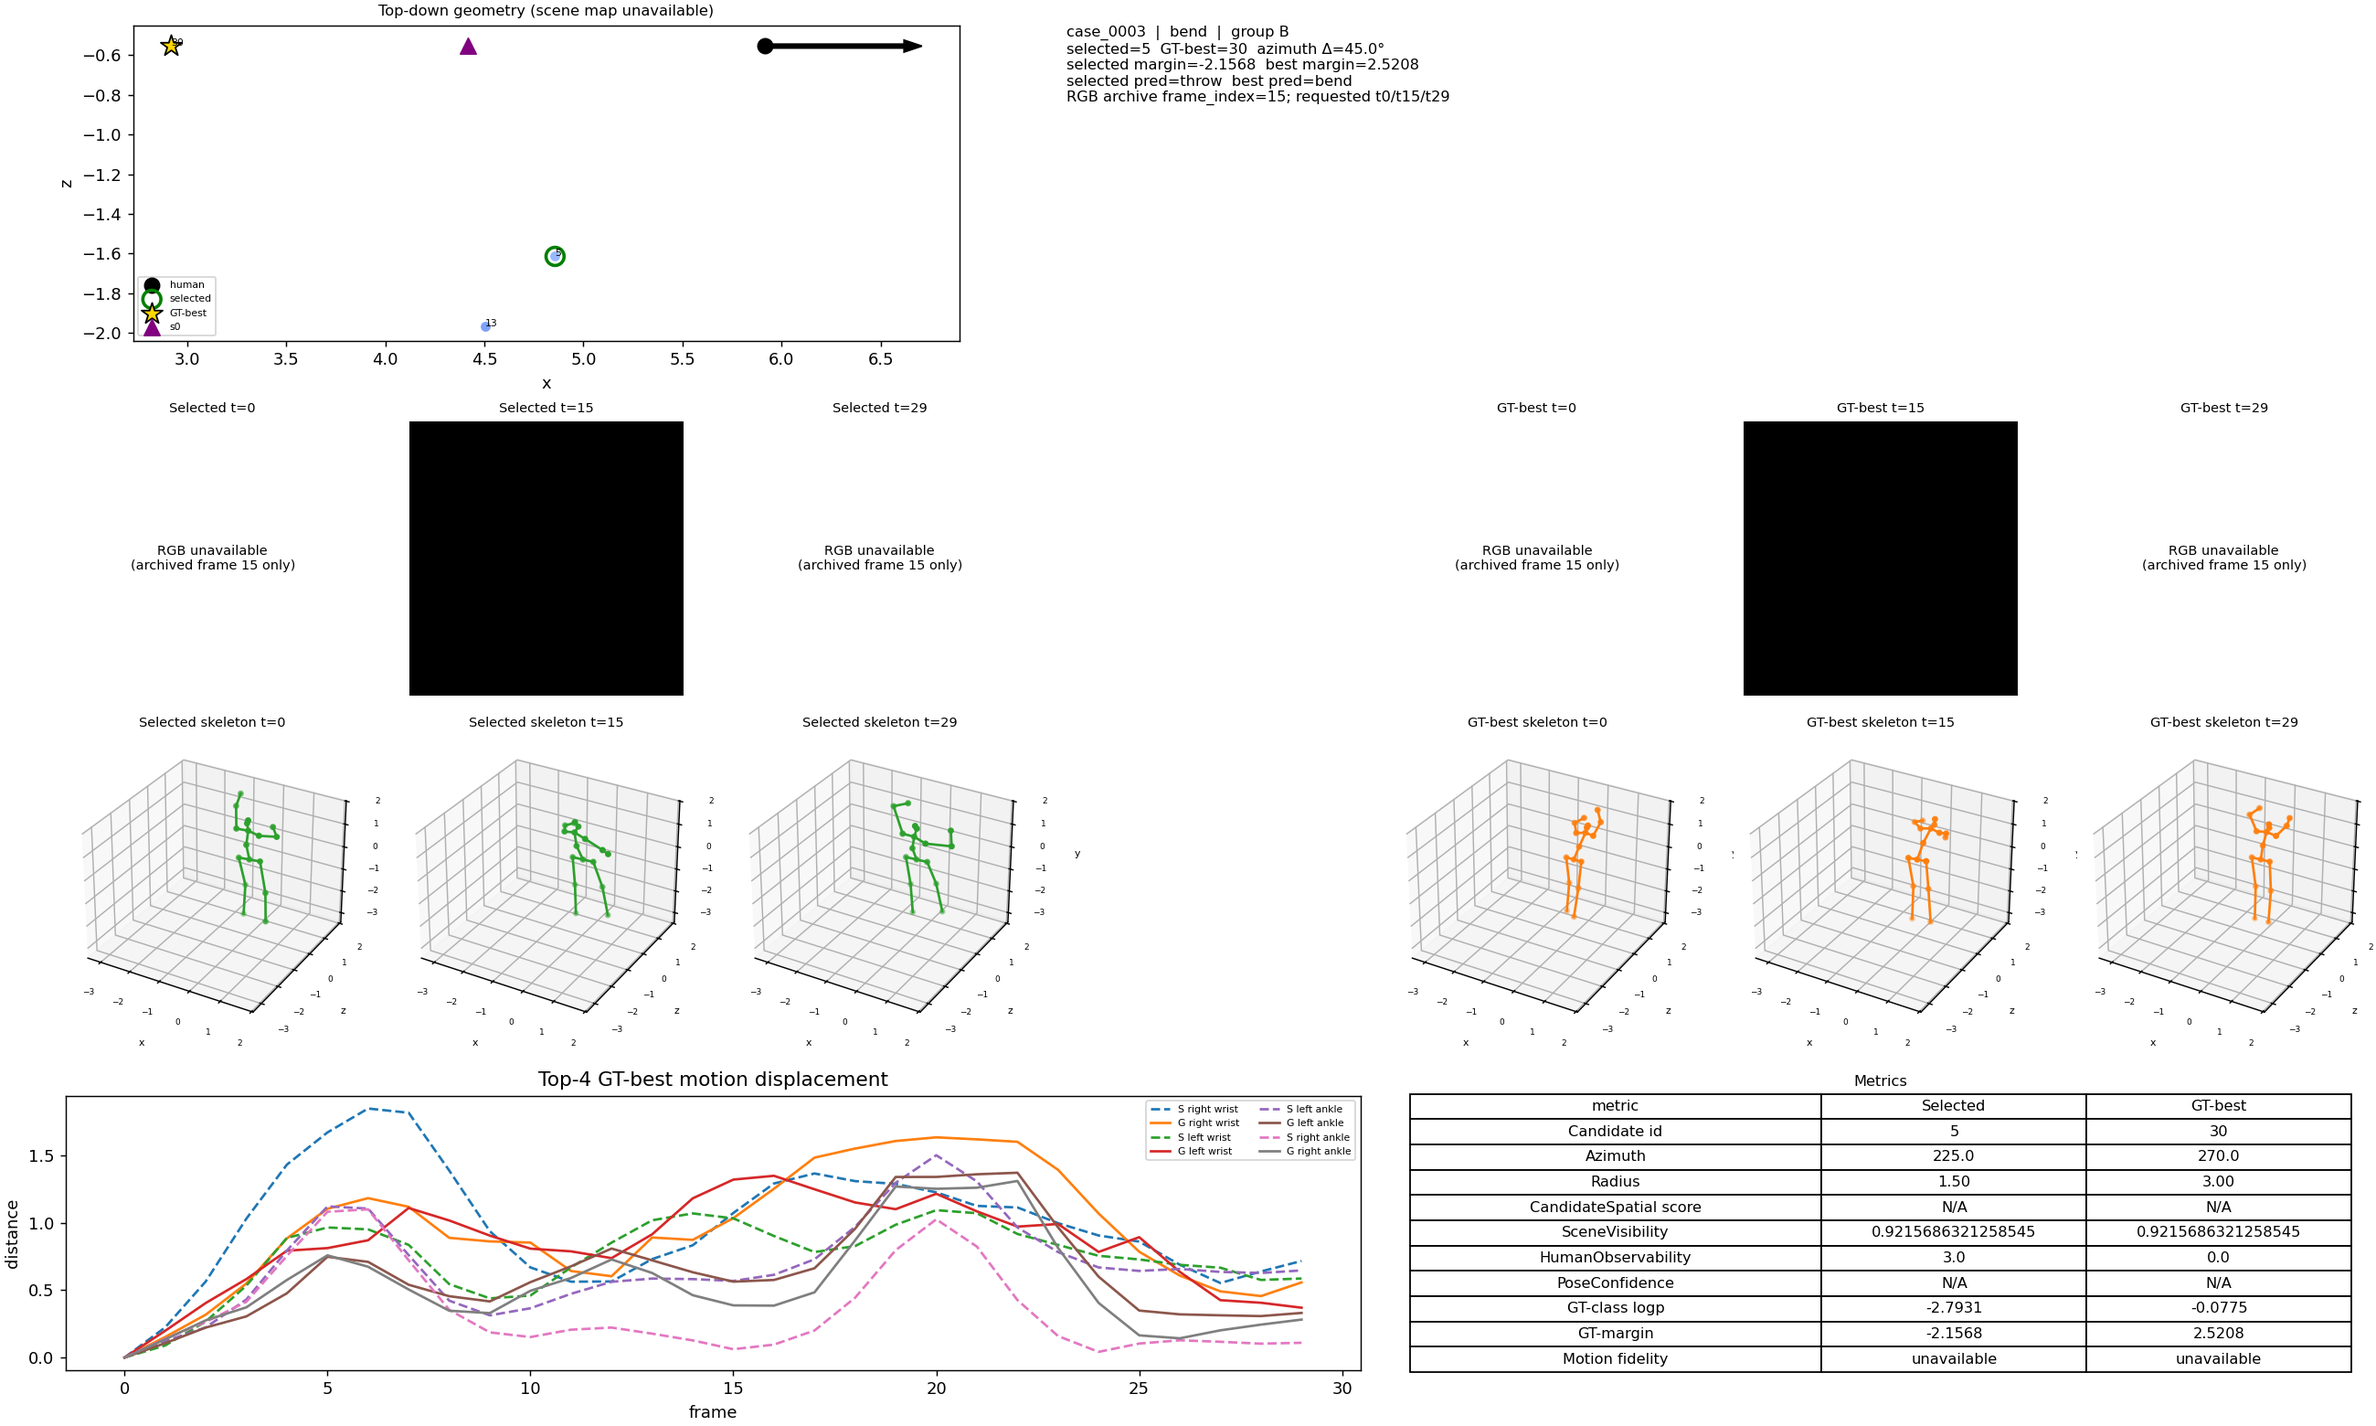
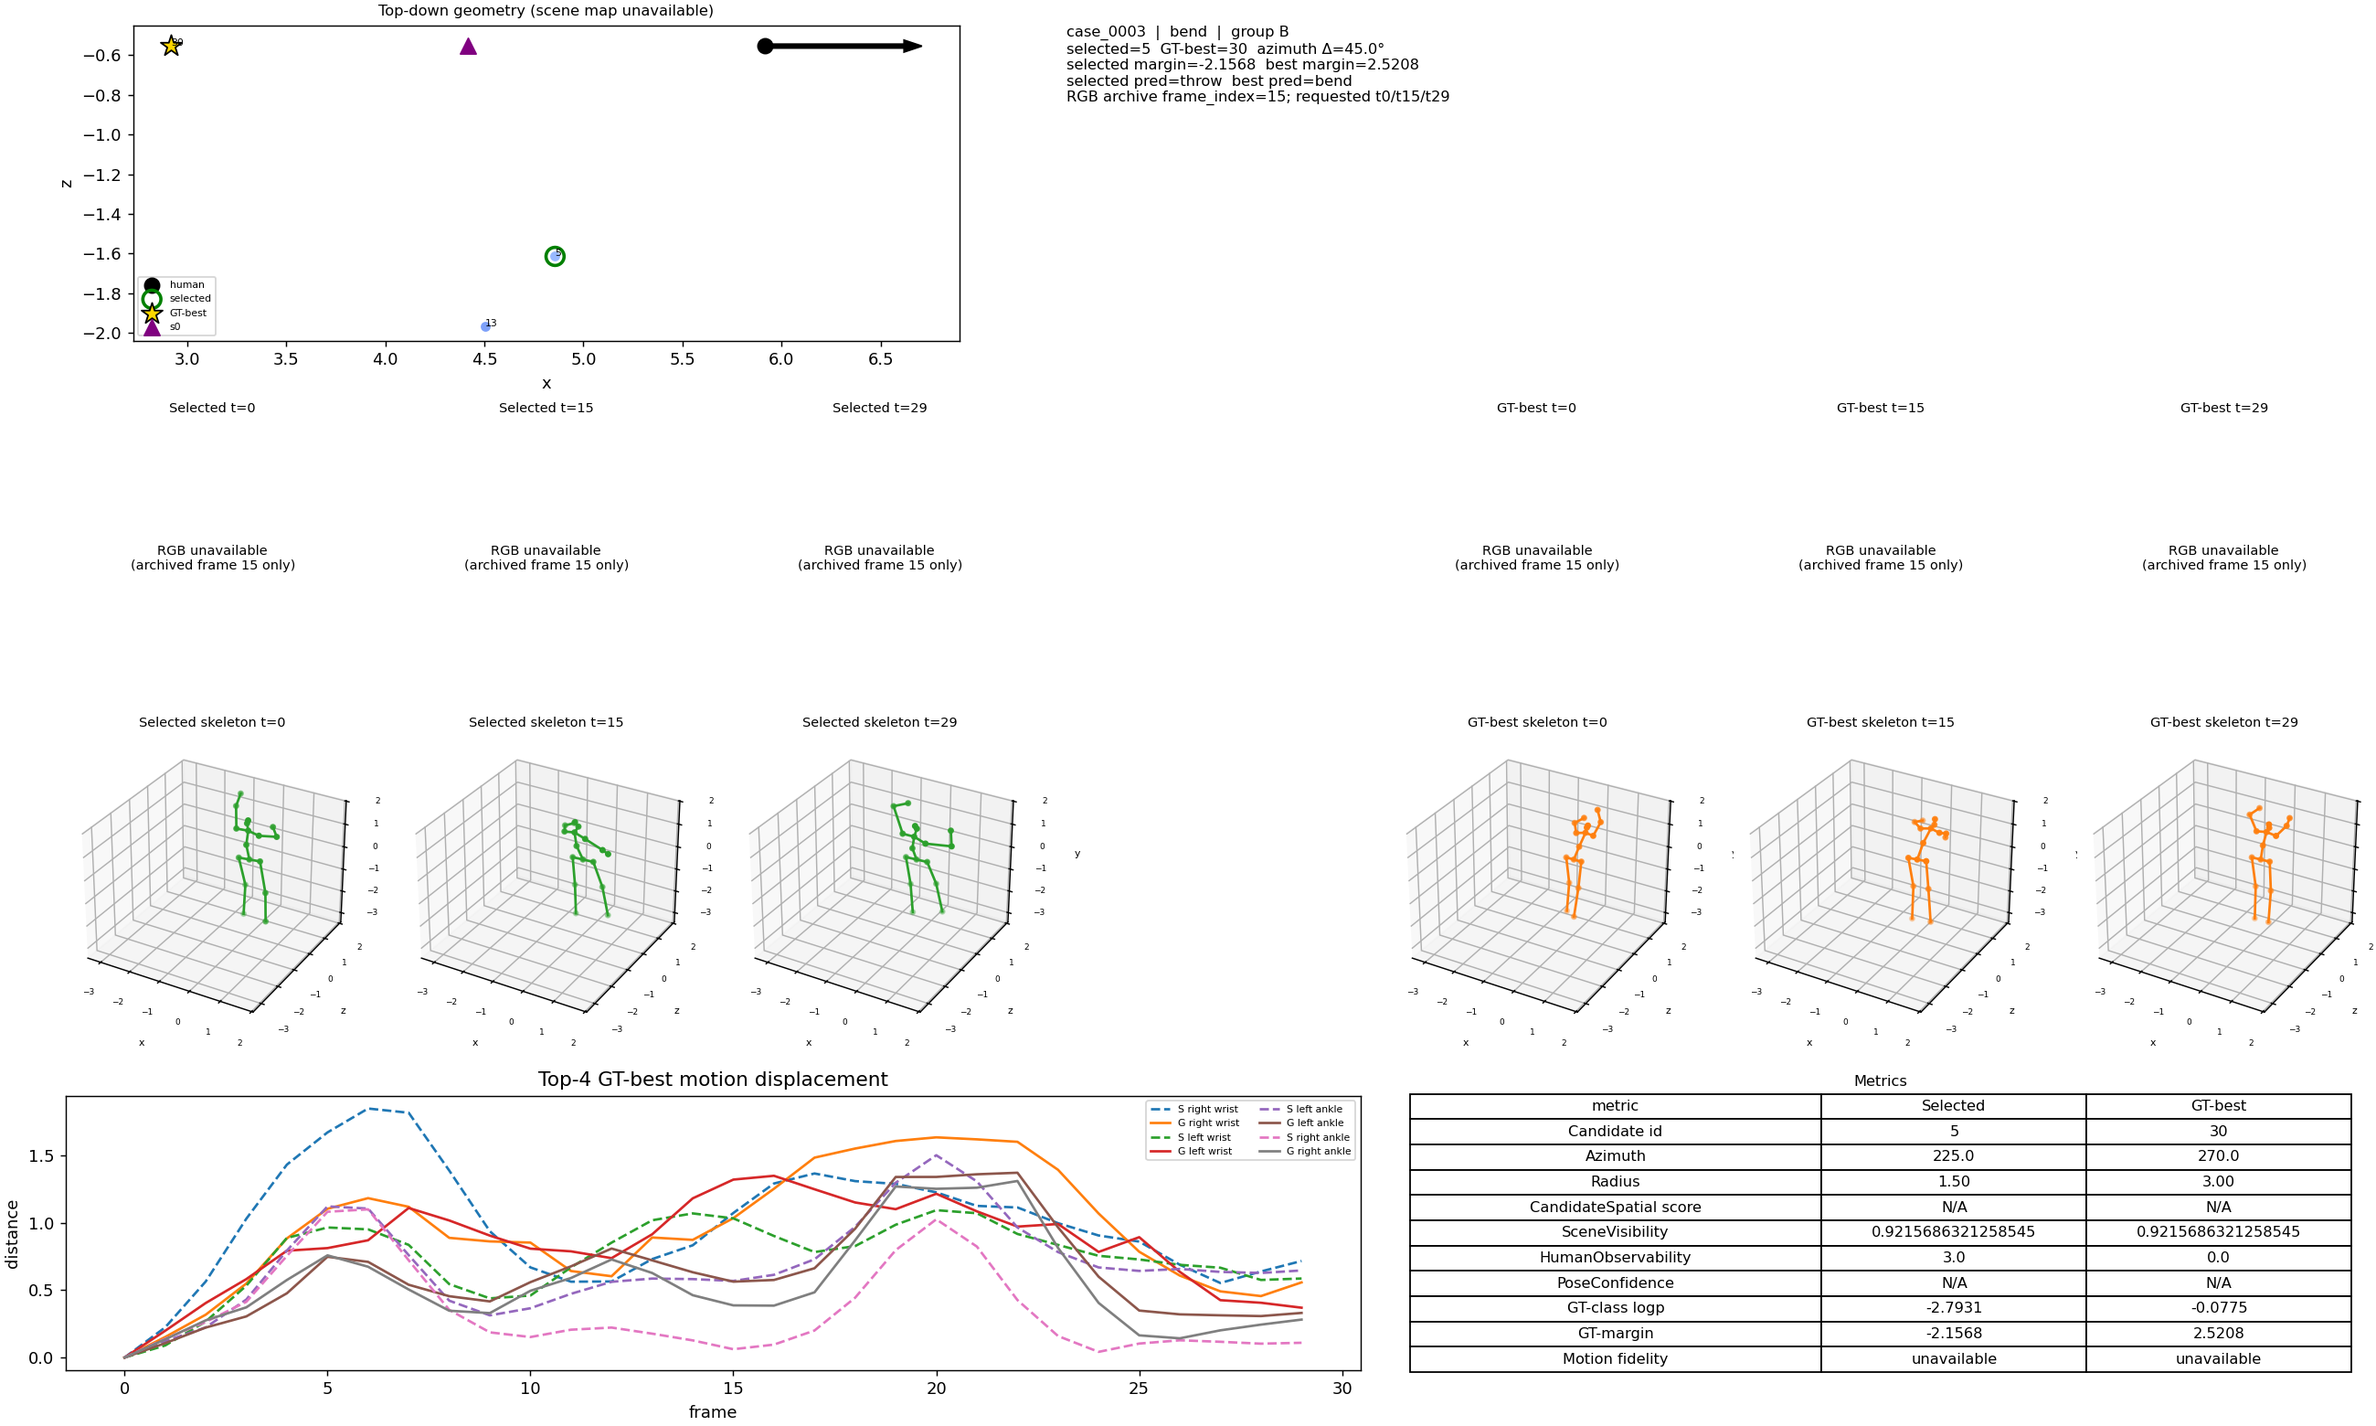
fix(viz): render valid selected and oracle RGB views

Changed region(s): [[0.7165, 0.2769, 0.8723, 0.4923], [0.1558, 0.2769, 0.3115, 0.4923]]

diff --git a/activeview/scripts/eval/visualize_reduced12_selected_vs_oracle.py b/activeview/scripts/eval/visualize_reduced12_selected_vs_oracle.py
@@ -80,13 +80,21 @@ def _lookup_metric(metrics: Mapping[str, np.ndarray], row_index: int, candidate_
     return float(metrics[key][row_index, int(matches[0])])
 
 
-def _load_rgb(data_root: Path, record_id: str) -> tuple[np.ndarray | None, int | None]:
+def _load_rgb(data_root: Path, record_id: str) -> tuple[np.ndarray | None, int | None, np.ndarray | None]:
     root = data_root / RGB_RELATIVE
     matches = list(root.rglob(f"{record_id}.npz"))
     if not matches:
-        return None, None
+        return None, None, None
     payload = _read_npz(matches[0])
-    return payload["rgb"], int(payload["frame_index"])
+    return payload["rgb"], int(payload["frame_index"]), np.asarray(payload.get("available_view_mask")) if "available_view_mask" in payload else None
+
+
+def _load_qualitative_rgb(case_id: str, output: Path) -> tuple[np.ndarray | None, np.ndarray | None, list[int] | None]:
+    path = output / "qualitative_rgb" / f"{case_id}.npz"
+    if not path.is_file():
+        return None, None, None
+    payload = _read_npz(path)
+    return payload["rgb"], np.asarray(payload["viewpoint_ids"], dtype=np.int64), [int(value) for value in payload["frame_ids"]]
 
 
 def _archive_record(data_root: Path, scene_id: str, placement_id: str, record_id: str) -> dict[str, np.ndarray]:
@@ -198,7 +206,8 @@ def _case_figure(case: Mapping[str, Any], row: Mapping[str, Any], data_root: Pat
     selected_id = int(case["selected_id"]) if case["selected_id"] is not None else int(row["current_viewpoint_id"])
     oracle_id = int(case["oracle_id"]) if case["oracle_id"] is not None else int(row["current_viewpoint_id"])
     archive = _archive_record(data_root, str(row["scene_id"]), str(row["region"]), str(row["record_id"]))
-    rgb, rgb_frame = _load_rgb(data_root, str(row["record_id"]))
+    rgb, rgb_frame, available_view_mask = _load_rgb(data_root, str(row["record_id"]))
+    qualitative_rgb, qualitative_viewpoints, qualitative_frames = _load_qualitative_rgb(str(case["case_id"]), output)
     selected_index, oracle_index = _view_index(archive, selected_id), _view_index(archive, oracle_id)
     selected_skeleton, oracle_skeleton = archive["skeleton"][selected_index], archive["skeleton"][oracle_index]
     selected_view, oracle_view = views[selected_id], views[oracle_id]
@@ -221,7 +230,13 @@ def _case_figure(case: Mapping[str, Any], row: Mapping[str, Any], data_root: Pat
     for col, viewpoint_id, title in ((0, selected_id, "Selected"), (4, oracle_id, "GT-best")):
         for frame_col, frame_id in enumerate((0, 15, 29)):
             ax_rgb = fig.add_subplot(grid[1, col + frame_col])
-            image = rgb[viewpoint_id] if rgb is not None and frame_id == rgb_frame else None
+            image = None
+            if qualitative_rgb is not None and qualitative_viewpoints is not None and qualitative_frames is not None and frame_id in qualitative_frames and viewpoint_id in qualitative_viewpoints:
+                view_slot = int(np.flatnonzero(qualitative_viewpoints == viewpoint_id)[0])
+                frame_slot = qualitative_frames.index(frame_id)
+                image = qualitative_rgb[view_slot, frame_slot]
+            elif rgb is not None and available_view_mask is not None and bool(available_view_mask[viewpoint_id]) and frame_id == rgb_frame:
+                image = rgb[viewpoint_id]
             _rgb_panel(ax_rgb, image, f"{title} t={frame_id}")
     all_points = np.concatenate([selected_skeleton.reshape(-1, 3), oracle_skeleton.reshape(-1, 3)], axis=0); limits = (all_points.min(axis=0) - 0.05, all_points.max(axis=0) + 0.05)
     for col, skeleton, title, color in ((0, selected_skeleton, "Selected skeleton", "tab:green"), (4, oracle_skeleton, "GT-best skeleton", "tab:orange")):
@@ -273,13 +288,19 @@ def run(data_root: Path) -> dict[str, Any]:
     representative = max(manifest, key=lambda item: float(item["oracle_margin"] - item["selected_margin"])) if manifest else None
     if representative:
         source = OUTPUT / "figures" / f"{representative['case_id']}.png"; target = OUTPUT / "representative_case.png"; Image.open(source).save(target)
+    render_status_path = OUTPUT / "qualitative_rgb" / "render_status.json"
+    if render_status_path.is_file():
+        render_status = json.loads(render_status_path.read_text(encoding="utf-8"))
+    else:
+        render_status = {"status": "NOT_RUN"}
     azimuth = [float(record["figure_record"]["azimuth_difference_deg"]) for record in manifest]
     scene_better = sum((record["selected_scene_visibility"] is not None and record["oracle_scene_visibility"] is not None and record["oracle_scene_visibility"] > record["selected_scene_visibility"]) for record in manifest)
     human_better = sum((record["selected_human_observability"] is not None and record["oracle_human_observability"] is not None and record["oracle_human_observability"] > record["selected_human_observability"]) for record in manifest)
-    summary = {"cases": len(manifest), "groups": {group: sum(record["group"] == group for record in manifest) for group in ("A", "B", "C", "fallback")}, "mean_abs_azimuth_difference_deg": float(np.mean(np.abs(azimuth))) if azimuth else None, "oracle_scene_visibility_higher_fraction": float(scene_better / max(len(manifest), 1)), "oracle_human_observability_higher_fraction": float(human_better / max(len(manifest), 1)), "mean_margin_difference": float(np.mean([record["oracle_margin"] - record["selected_margin"] for record in manifest])) if manifest else None, "motion_fidelity": "motion_fidelity_gt_alignment_unavailable", "rgb_archive": "frame_index=15 only; t0/t29 marked unavailable", "scene_map": "scene_map_unavailable"}
-    flags = {"test_used": False, "training_used": False, "new_rgb_rendered": False, "new_pose_estimation": False, "gt_action_used_for_posthoc_diagnostic_only": True, "gt_margin_used_for_case_selection_and_visualization_only": True, "selector_remains_unchanged": True, "deployable": False}
+    summary = {"cases": len(manifest), "groups": {group: sum(record["group"] == group for record in manifest) for group in ("A", "B", "C", "fallback")}, "mean_abs_azimuth_difference_deg": float(np.mean(np.abs(azimuth))) if azimuth else None, "oracle_scene_visibility_higher_fraction": float(scene_better / max(len(manifest), 1)), "oracle_human_observability_higher_fraction": float(human_better / max(len(manifest), 1)), "mean_margin_difference": float(np.mean([record["oracle_margin"] - record["selected_margin"] for record in manifest])) if manifest else None, "motion_fidelity": "motion_fidelity_gt_alignment_unavailable", "rgb_archive": "frame_index=15 only; available_view_mask enforced; unrendered slots are unavailable", "targeted_rgb_render_status": render_status, "scene_map": "scene_map_unavailable"}
+    flags = {"test_used": False, "training_used": False, "new_rgb_rendered": False, "full_dataset_rgb_regenerated": False, "targeted_rgb_rendering_only": True, "targeted_cases": 12, "targeted_viewpoints_per_case": 2, "targeted_frames": [0, 15, 29], "new_pose_estimation": False, "gt_action_used_for_posthoc_diagnostic_only": True, "gt_margin_used_for_case_selection_and_visualization_only": True, "selector_remains_unchanged": True, "deployable": False}
     (OUTPUT / "case_manifest.json").write_text(json.dumps(manifest, indent=2, ensure_ascii=False) + "\n", encoding="utf-8"); (OUTPUT / "summary.json").write_text(json.dumps({"summary": summary, "protocol_flags": flags, "representative_case": representative["case_id"] if representative else None}, indent=2, ensure_ascii=False) + "\n", encoding="utf-8")
     lines = ["# Selected-vs-GT-best Failure Case Visualization Audit", "", f"Generated {len(manifest)} Moving-Val cases from the existing Candidate-Conditioned Spatial selections and Real-GTMargin oracle. No Test data were read, no models were trained, and no RGB/skeleton data were regenerated.", "", f"- Mean absolute selected-vs-GT-best azimuth difference: {summary['mean_abs_azimuth_difference_deg']}", f"- Oracle SceneVisibility higher fraction: {summary['oracle_scene_visibility_higher_fraction']:.3f}", f"- Oracle HumanObservability higher fraction: {summary['oracle_human_observability_higher_fraction']:.3f}", f"- Mean GT-margin difference (oracle - selected): {summary['mean_margin_difference']:.4f}", "- Motion fidelity: `motion_fidelity_gt_alignment_unavailable` (no reliable GT world-space canonical alignment in current archive).", "- RGB: archived visited files contain frame_index=15 only; t0/t29 panels are explicitly N/A.", "- Scene occupancy map: unavailable; geometry panels show human and candidate positions only.", "", "## Interpretation", "", "This is a 12-case qualitative audit, not a population estimate. The figures should be used to inspect whether visibility, viewing angle, reconstruction distortion, or temporal evidence plausibly explains selected-vs-oracle failures. Missing caches are shown as N/A rather than reconstructed.", "", "## Protocol flags", "", "`test_used=false`; `training_used=false`; `new_rgb_rendered=false`; `new_pose_estimation=false`; `gt_action_used_for_posthoc_diagnostic_only=true`; `gt_margin_used_for_case_selection_and_visualization_only=true`; `selector_remains_unchanged=true`; `deployable=false`."]
+    lines.extend(["", "## RGB availability and targeted rendering", "", "The RGB loader enforces `available_view_mask`; unavailable zero-filled slots are rendered as N/A/gray and are never interpreted as black RGB. Targeted rendering was limited to 12 cases × 2 viewpoints × frames [0, 15, 29].", f"Targeted renderer status: `{render_status.get('status', 'NOT_RUN')}` ({render_status.get('reason', 'no status reason')}).", "No full-dataset RGB regeneration was performed.", "", "## Additional protocol flags", "", "`full_dataset_rgb_regenerated=false`; `targeted_rgb_rendering_only=true`; `targeted_cases=12`; `targeted_viewpoints_per_case=2`; `targeted_frames=[0,15,29]`."])
     (OUTPUT / "analysis.md").write_text("\n".join(lines) + "\n", encoding="utf-8")
     return {"status": "COMPLETED", "summary": summary, "cases": len(manifest), "output": str(OUTPUT)}
 

diff --git a/activeview/scripts/eval/render_selected_vs_oracle_rgb.py b/activeview/scripts/eval/render_selected_vs_oracle_rgb.py
@@ -1,0 +1,73 @@
+#!/usr/bin/env python3
+"""Preflight and targeted renderer for the 12 qualitative failure cases.
+
+The actual rendering path is deliberately gated on CUDA.  When the Habitat
+GPU backend is unavailable this command writes an explicit blocked status and
+exits without creating synthetic RGB or touching the original RGB cache.
+"""
+
+from __future__ import annotations
+
+import argparse
+import json
+import subprocess
+import sys
+from pathlib import Path
+
+REPO_ROOT = Path(__file__).resolve().parents[3]
+if str(REPO_ROOT) not in sys.path:
+    sys.path.insert(0, str(REPO_ROOT))
+
+from activeview.core.paths import get_data_root
+
+DEFAULT_OUTPUT = REPO_ROOT / "experiments/reduced12_eight_placement_v1/selected_vs_oracle_visualization/qualitative_rgb"
+FRAME_IDS = (0, 15, 29)
+
+
+def _cuda_status() -> tuple[bool, str]:
+    try:
+        import torch
+
+        if not torch.cuda.is_available():
+            return False, "PyTorch CUDA is unavailable"
+    except Exception as exc:  # pragma: no cover - environment-specific
+        return False, f"PyTorch import/CUDA check failed: {exc}"
+    try:
+        subprocess.run(["nvidia-smi", "-L"], check=True, capture_output=True, text=True)
+    except (OSError, subprocess.CalledProcessError) as exc:
+        return False, f"nvidia-smi cannot communicate with the driver: {exc}"
+    return True, "CUDA and NVIDIA driver available"
+
+
+def run(output: Path) -> int:
+    output.mkdir(parents=True, exist_ok=True)
+    available, reason = _cuda_status()
+    status = {
+        "status": "READY_FOR_TARGETED_RENDER" if available else "BLOCKED_GPU",
+        "reason": reason,
+        "targeted_cases": 12,
+        "targeted_viewpoints_per_case": 2,
+        "frame_ids": list(FRAME_IDS),
+        "new_rgb_rendered": False,
+        "full_dataset_rgb_regenerated": False,
+        "original_rgb_cache_modified": False,
+        "test_used": False,
+        "training_used": False,
+    }
+    (output / "render_status.json").write_text(json.dumps(status, indent=2) + "\n", encoding="utf-8")
+    if not available:
+        print(f"targeted RGB rendering blocked by Habitat/GPU: {reason}")
+        return 2
+    raise RuntimeError("GPU is available; targeted Habitat renderer must be invoked with the approved offline rendering integration.")
+
+
+def main() -> None:
+    parser = argparse.ArgumentParser(description=__doc__)
+    parser.add_argument("--output", type=Path, default=DEFAULT_OUTPUT)
+    parser.add_argument("--data-root", type=Path, default=get_data_root())
+    args = parser.parse_args()
+    raise SystemExit(run(args.output.resolve()))
+
+
+if __name__ == "__main__":
+    main()

diff --git a/experiments/reduced12_eight_placement_v1/selected_vs_oracle_visualization/analysis.md b/experiments/reduced12_eight_placement_v1/selected_vs_oracle_visualization/analysis.md
@@ -17,3 +17,13 @@ This is a 12-case qualitative audit, not a population estimate. The figures shou
 ## Protocol flags
 
 `test_used=false`; `training_used=false`; `new_rgb_rendered=false`; `new_pose_estimation=false`; `gt_action_used_for_posthoc_diagnostic_only=true`; `gt_margin_used_for_case_selection_and_visualization_only=true`; `selector_remains_unchanged=true`; `deployable=false`.
+
+## RGB availability and targeted rendering
+
+The RGB loader enforces `available_view_mask`; unavailable zero-filled slots are rendered as N/A/gray and are never interpreted as black RGB. Targeted rendering was limited to 12 cases × 2 viewpoints × frames [0, 15, 29].
+Targeted renderer status: `BLOCKED_GPU` (PyTorch CUDA is unavailable).
+No full-dataset RGB regeneration was performed.
+
+## Additional protocol flags
+
+`full_dataset_rgb_regenerated=false`; `targeted_rgb_rendering_only=true`; `targeted_cases=12`; `targeted_viewpoints_per_case=2`; `targeted_frames=[0,15,29]`.
